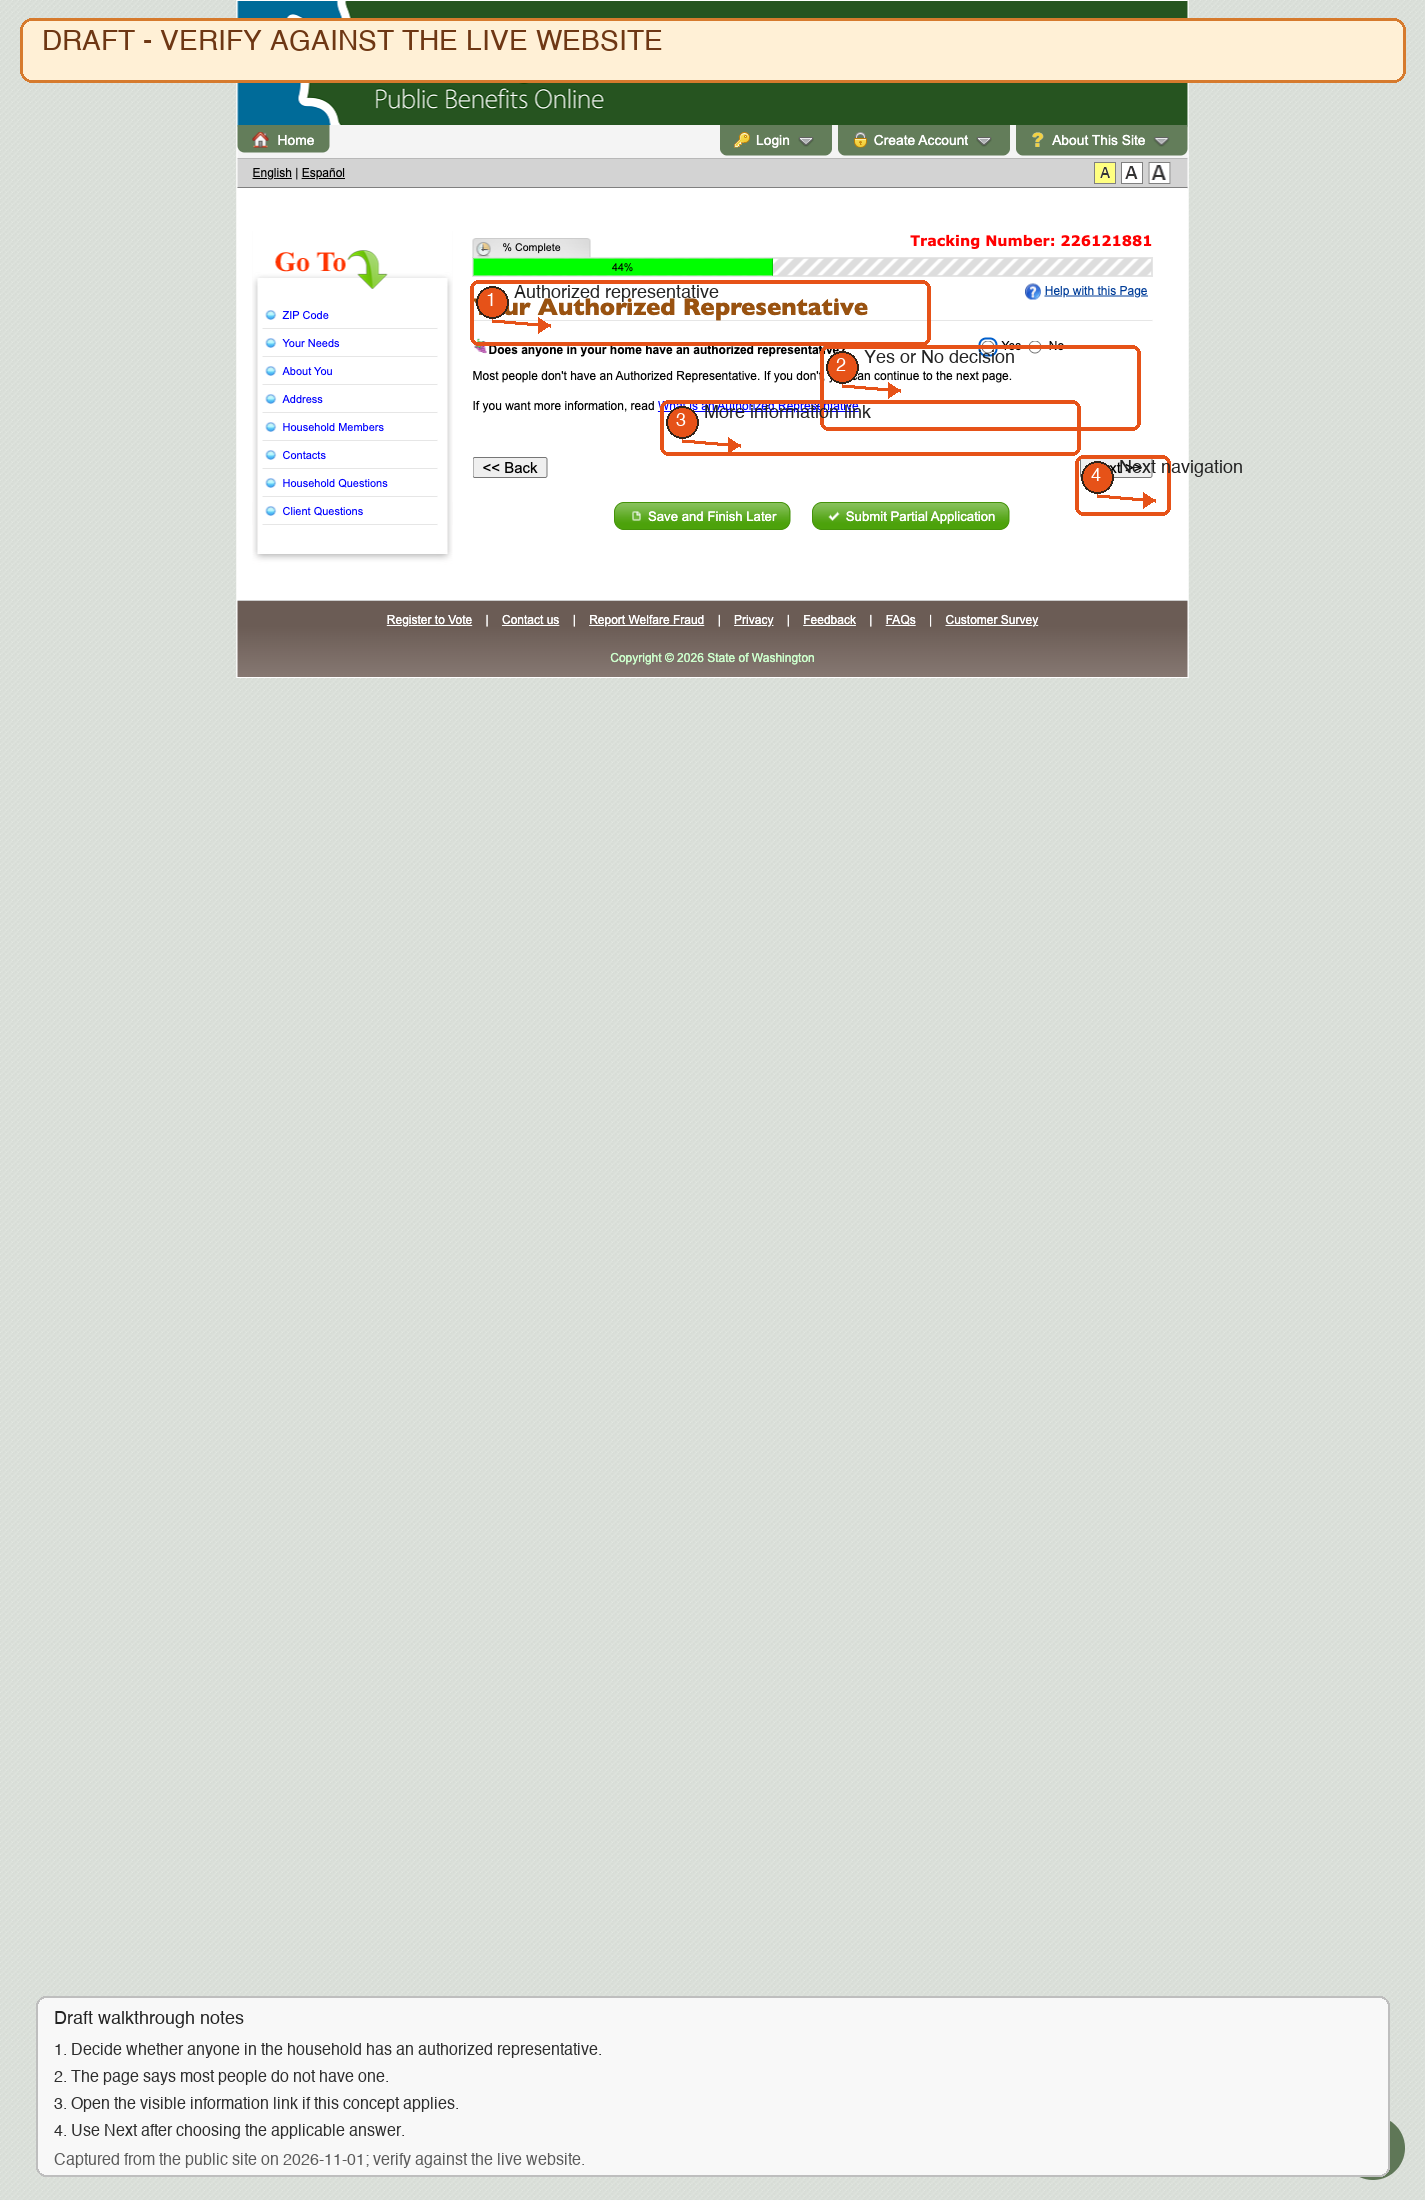
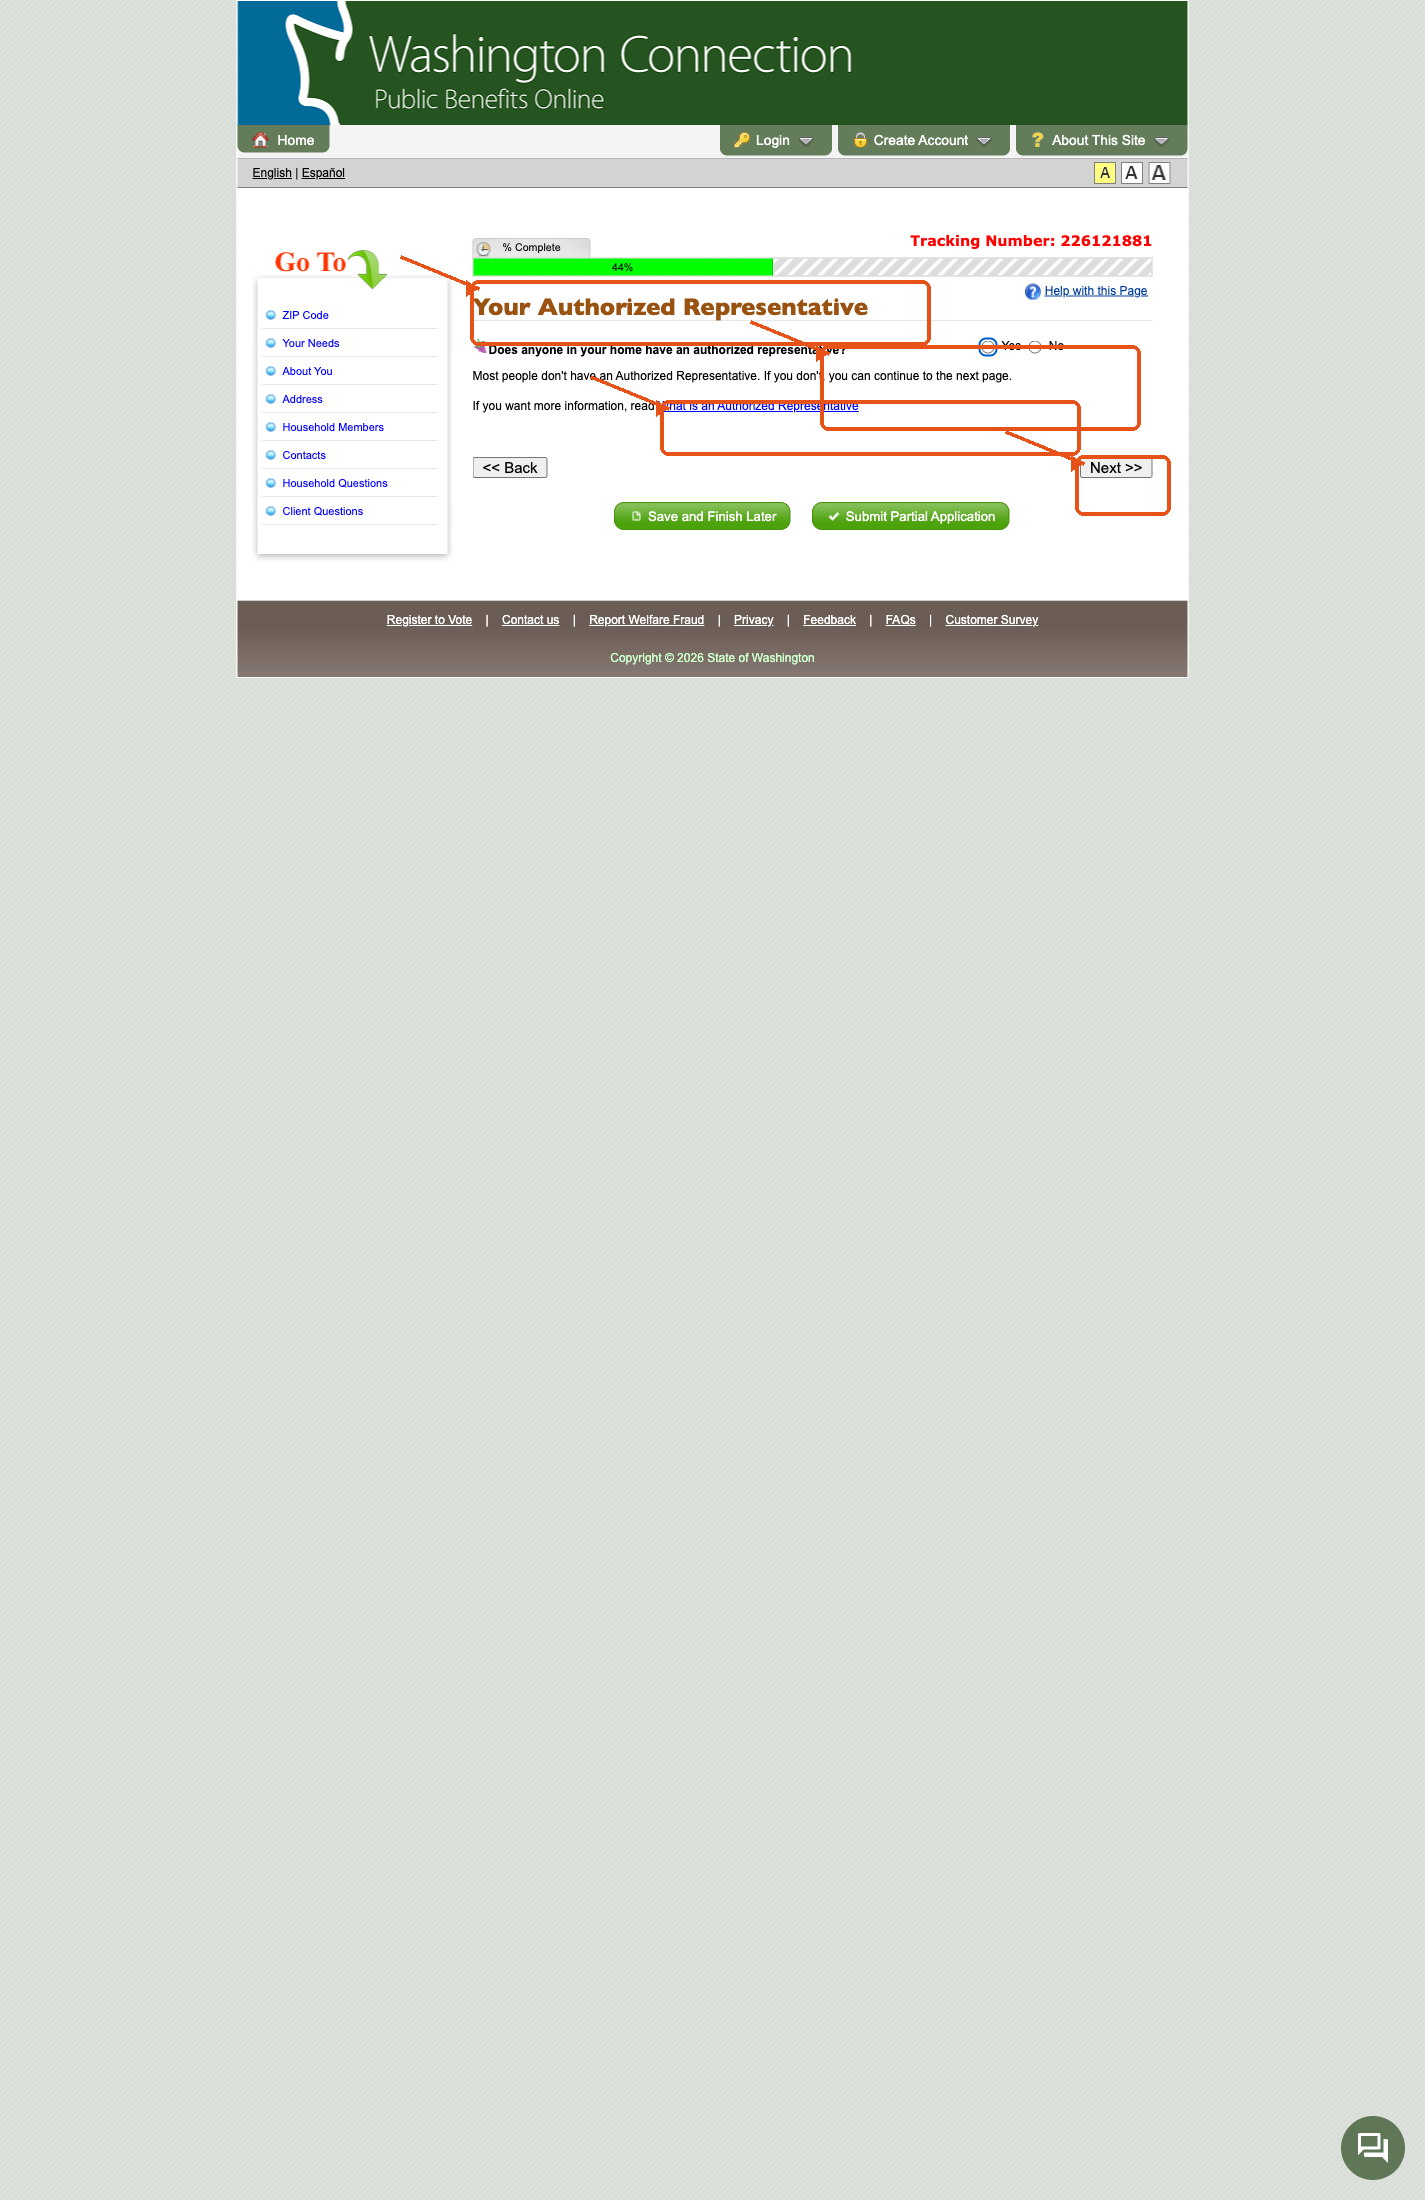
Add reusable Washington Connection walkthrough

diff --git a/src/components/VisualWalkthrough.tsx b/src/components/VisualWalkthrough.tsx
@@ -62,13 +62,6 @@ export function VisualWalkthrough({ walkthrough }: VisualWalkthroughProps) {
                 </figcaption>
               )}
             </figure>
-            <ul>
-              {step.annotations.map((annotation) => (
-                <li key={`${step.id}-${annotation.kind}-${annotation.label}`}>
-                  {annotation.kind === 'arrow' ? 'Arrow' : 'Highlight'}: {annotation.label}
-                </li>
-              ))}
-            </ul>
           </li>
         ))}
       </ol>

diff --git a/scripts/annotate-washington-connection-walkthrough.py b/scripts/annotate-washington-connection-walkthrough.py
@@ -152,27 +152,14 @@ def annotate(plan):
     image = Image.open(source).convert('RGB')
     draw = ImageDraw.Draw(image)
 
-    banner = (20, 18, image.width - 20, 82)
-    draw.rounded_rectangle(banner, radius=12, fill=(255, 240, 214), outline=(214, 122, 45), width=3)
-    draw.text((42, 28), 'DRAFT - VERIFY AGAINST THE LIVE WEBSITE', fill=(110, 55, 20), font=TITLE_FONT)
 
-    for index, (box, label) in enumerate(plan['regions'], start=1):
+    for box, _label in plan['regions']:
         x1, y1, x2, y2 = box
         draw.rounded_rectangle((x1, y1, x2, y2), radius=8, outline=(230, 82, 24), width=4)
-        cx, cy = x1 + 22, y1 + 22
-        draw.ellipse((cx - 16, cy - 16, cx + 16, cy + 16), fill=(230, 82, 24), outline=(50, 35, 25), width=2)
-        draw.text((cx - 6, cy - 10), str(index), fill='white', font=LABEL_FONT)
-        draw.text((x1 + 44, y1 + 4), label, fill=(35, 35, 35), font=LABEL_FONT)
-        draw_arrow(draw, (cx, cy + 18), (x1 + 80, y1 + 45))
+        arrow_start = (max(20, x1 - 70), max(90, y1 - 24))
+        arrow_end = (x1 + 8, y1 + 8)
+        draw_arrow(draw, arrow_start, arrow_end)
 
-    notes_height = 180
-    notes_top = image.height - notes_height - 24
-    notes_box = (36, notes_top, image.width - 36, image.height - 24)
-    draw.rounded_rectangle(notes_box, radius=10, fill=(248, 248, 248), outline=(190, 190, 190), width=2)
-    draw.text((54, notes_top + 14), 'Draft walkthrough notes', fill=(35, 35, 35), font=LABEL_FONT)
-    for index, note in enumerate(plan['notes']):
-        draw.text((54, notes_top + 46 + index * 27), note, fill=(45, 45, 45), font=NOTE_FONT)
-    draw.text((54, image.height - 48), 'Captured from the public site on ' + CAPTURED_AT + '; verify against the live website.', fill=(90, 90, 90), font=NOTE_FONT)
 
     image.save(output)
     print(f'Created {output} ({image.width}x{image.height}, {output.stat().st_size} bytes)')
